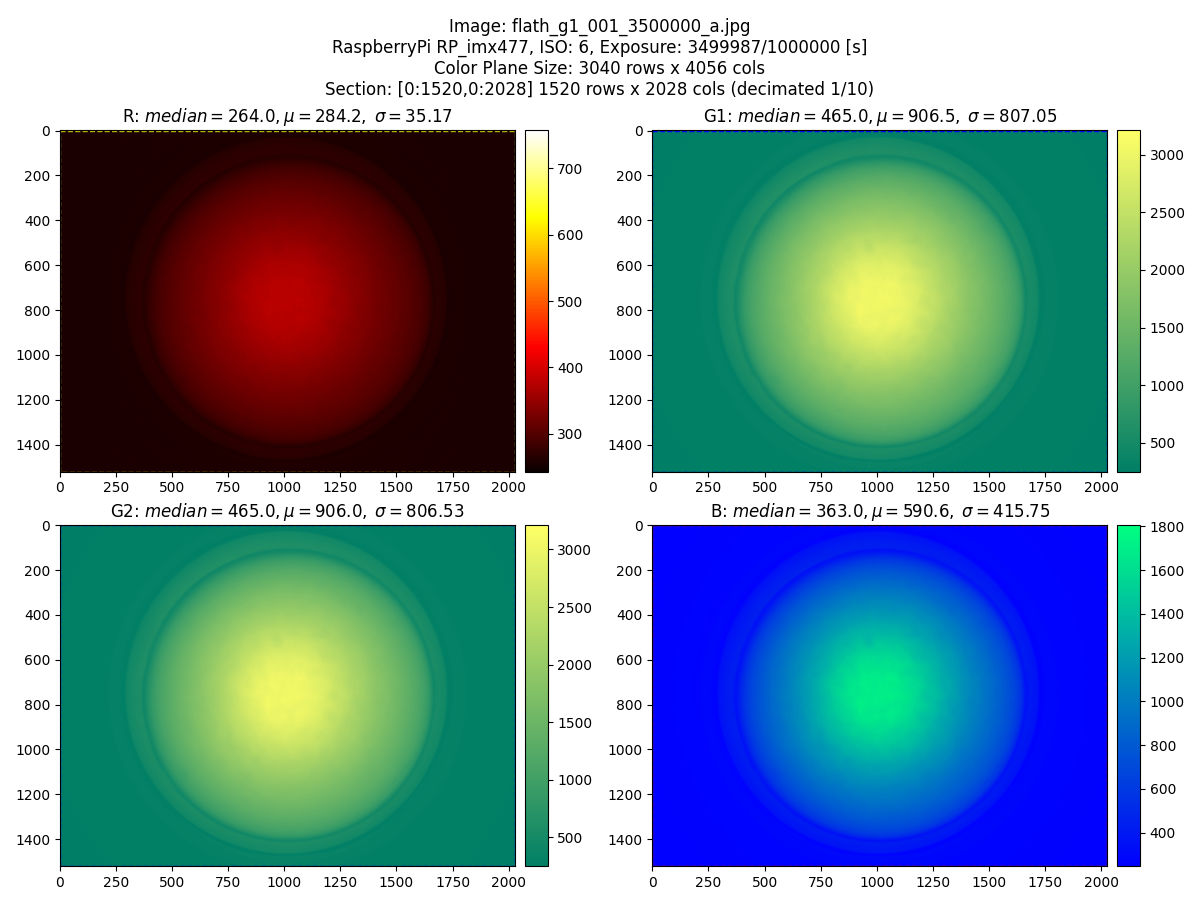
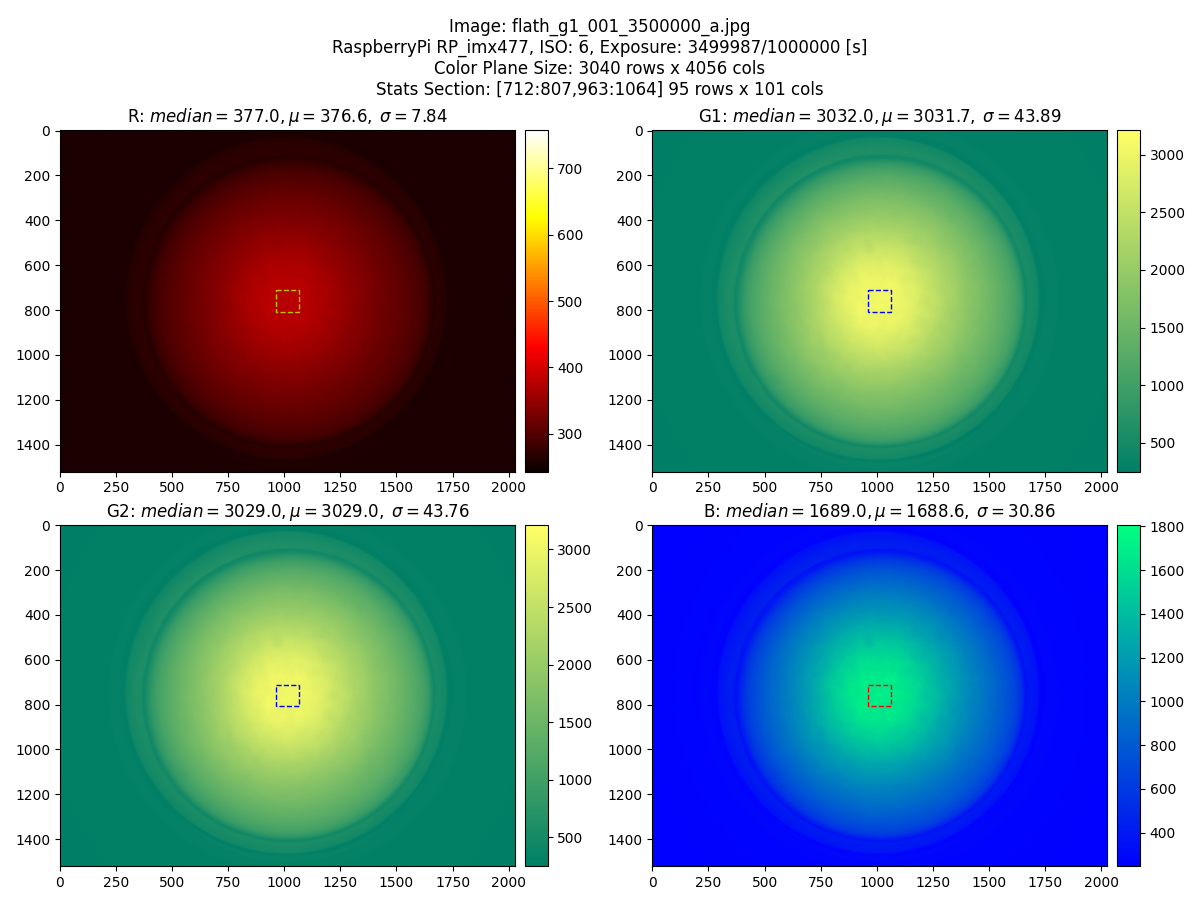
teweaked titles

Changed region(s): [[0.0925, 0.0933, 0.8942, 0.1556], [0.5858, 0.56, 0.8942, 0.5911], [0.0925, 0.56, 0.4008, 0.5911]]

diff --git a/src/rawplot/image.py b/src/rawplot/image.py
@@ -95,10 +95,18 @@ def image(args):
 
     display_rows, display_cols = plot_layout(channels)
     fig, axes = plt.subplots(nrows=display_rows, ncols=display_cols, figsize=(12, 9), layout='tight')
-    fig.suptitle(f"Image: {image.name()}\n"
-            f"{metadata['maker']} {metadata['camera']}, ISO: {metadata['iso']}, Exposure: {metadata['exposure']} [s]\n"
-            f"Color Plane Size: {image.shape()[0]} rows x {image.shape()[1]} cols\n" 
-            f"Section: {roi} {roi.height()} rows x {roi.width()} cols (decimated {dcm})")
+    if args.histogram:
+         title = f"Image: {image.name()}\n" \
+            f"{metadata['maker']} {metadata['camera']}, ISO: {metadata['iso']}, Exposure: {metadata['exposure']} [s]\n" \
+            f"Color Plane Size: {image.shape()[0]} rows x {image.shape()[1]} cols (decimated {dcm})\n" \
+            f"Stats Section: {roi} {roi.height()} rows x {roi.width()} cols"
+    else:
+        title = f"Image: {image.name()}\n" \
+            f"{metadata['maker']} {metadata['camera']}, ISO: {metadata['iso']}, Exposure: {metadata['exposure']} [s]\n" \
+            f"Color Plane Size: {image.shape()[0]} rows x {image.shape()[1]} cols\n" \
+            f"Stats Section: {roi} {roi.height()} rows x {roi.width()} cols"
+
+    fig.suptitle(title)
     axes = axes_reshape(axes, channels)
     for row in range(0,display_rows):
         for col in range(0,display_cols):

diff --git a/README.md b/README.md
@@ -97,7 +97,7 @@ rawplot-plan combistops -ti 1/1000 -tf 6 -m 4095
 This utility displays a single image or histogram. useful to determine exposure levels and region of interest.
 
 ```bash
-rawplot-image --image -i images/20240117/linearity/flath_g1_001_3500000_a.jpg
+rawplot-image --image -i images/20240117/linearity/flath_g1_001_3500000_a.jpg -wi 1/20 -he 1/16
 ```
 
 ![Raspberry Pi HQ camera flat image](doc/images/flat_image.png)
